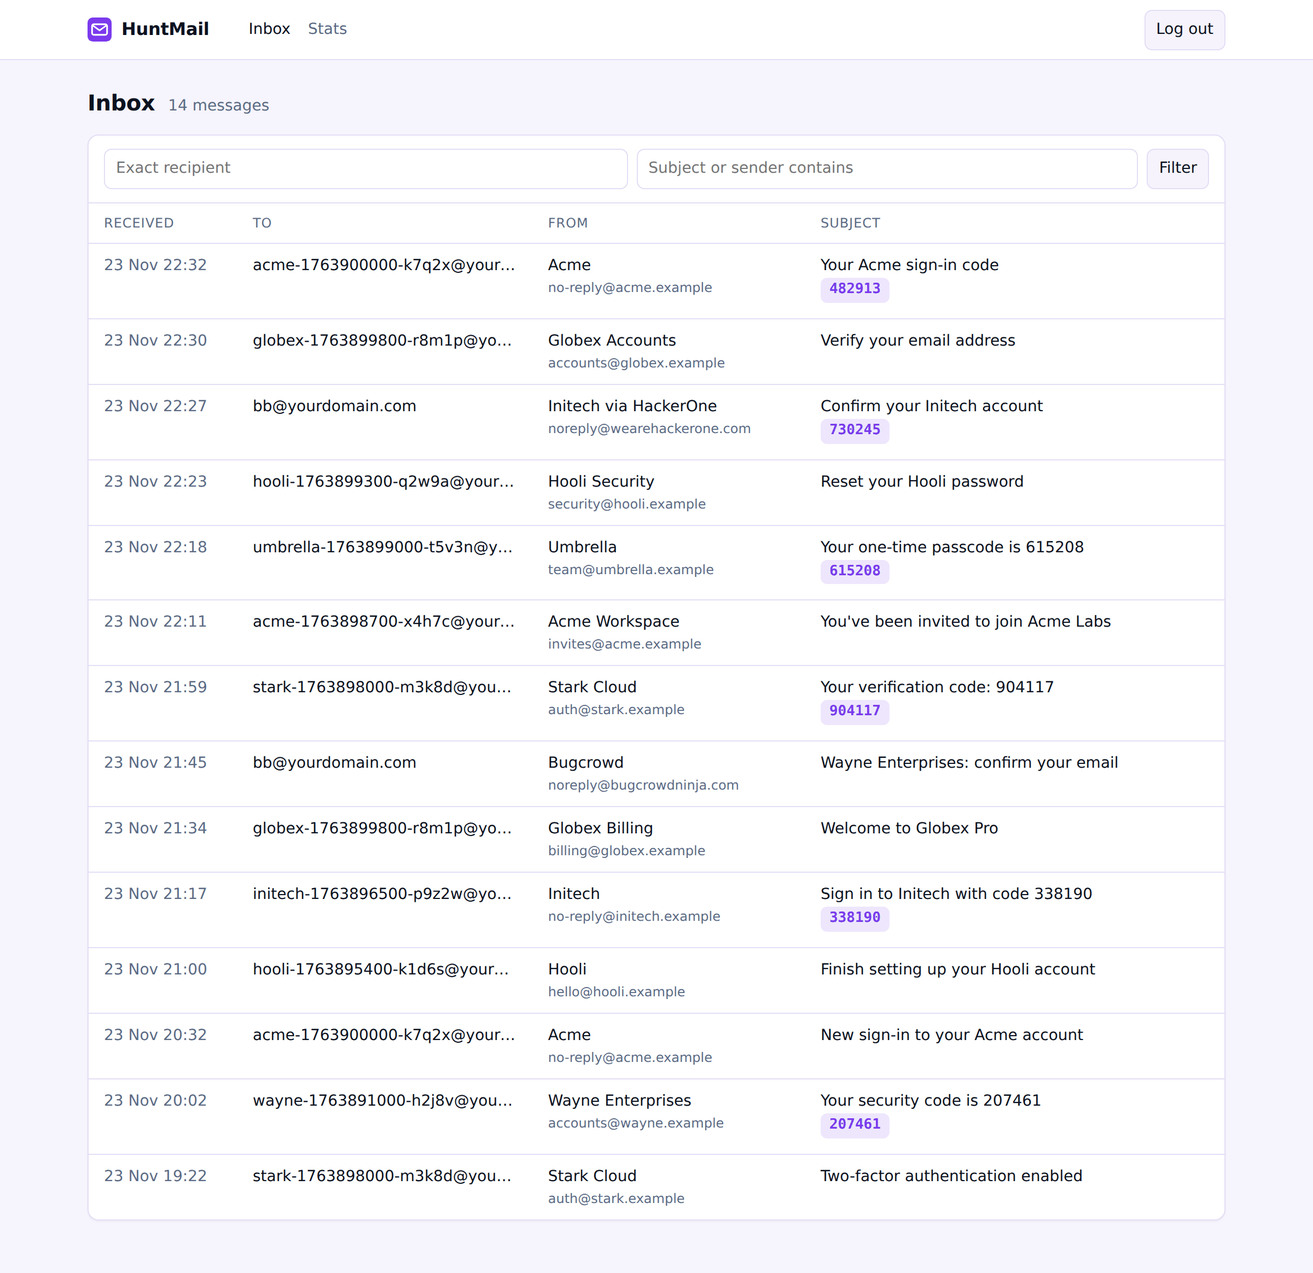
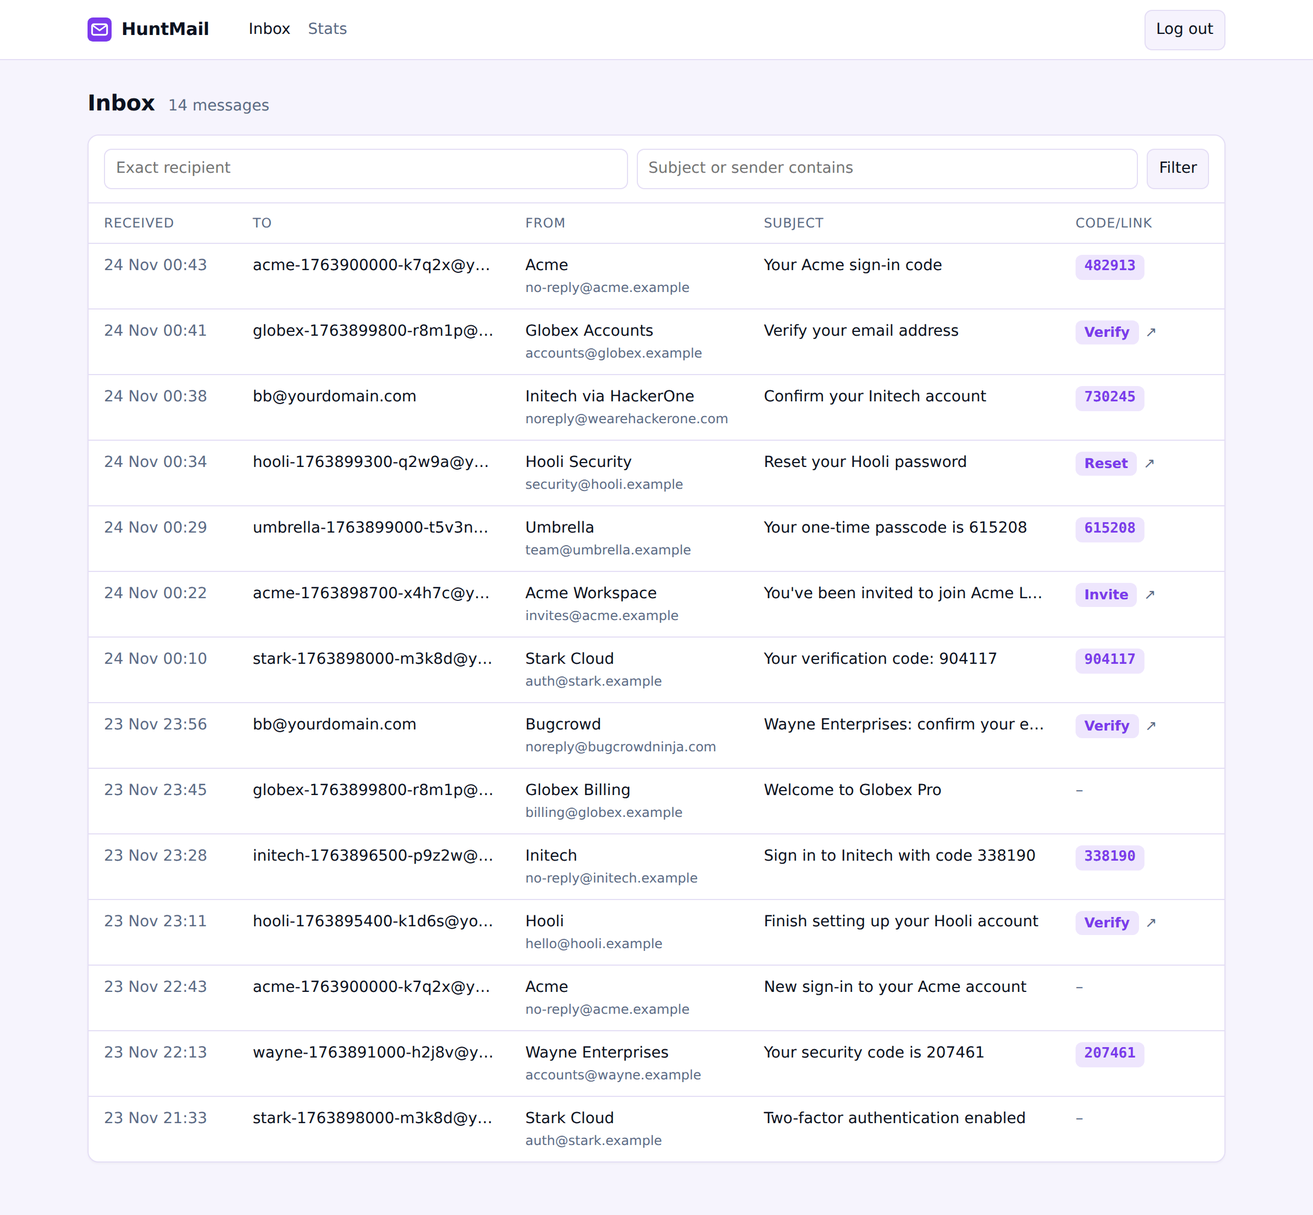
Update (v1.2.0)

diff --git a/src/ui.ts b/src/ui.ts
@@ -1,4 +1,5 @@
 import type { DayCount, DomainCount, MessageOut, Overview, TopEntry } from "./store";
+import type { ActionLink } from "./action";
 import { MENU_CSS, MENU_JS, THEME_CSS, themeMenu } from "./theme";
 import { escapeHtml as e } from "./util";
 
@@ -79,6 +80,18 @@ document.addEventListener("auxclick", function (e) {
 });
 ${MENU_JS}`;
 
+/** The mail's action link: its kind copies the link (paste it into the browser you test with); the arrow opens it. */
+function actionChip(a: ActionLink): string {
+  const tip = `${a.text ? a.text + "\n" : ""}${a.url}\nClick to copy. Opening it is a click on it: it can use it up.`;
+  return `<button type="button" class="chip act" data-copy="${e(a.url)}" title="${e(tip)}">${e(a.kind)}</button><a class="act-open" href="${e(a.url)}" target="_blank" rel="noopener noreferrer nofollow" title="Open in a new tab" aria-label="Open the ${e(a.kind)} link">↗</a>`;
+}
+
+/** The Code/link cell: the likeliest code, else the action link. */
+function codeOrAction(m: MessageOut): string {
+  if (m.codes[0]) return codeChip(m.codes[0]) + (m.codes.length > 1 ? `<span class="mut" title="${e(m.codes.slice(1).join(", "))}">+${m.codes.length - 1}</span>` : "");
+  return m.action ? actionChip(m.action) : `<span class="mut">–</span>`;
+}
+
 /** A one-time code as a button that copies itself. */
 function codeChip(code: string): string {
   return `<button type="button" class="chip code" data-copy="${e(code)}" title="Click to copy">${e(code)}</button>`;
@@ -130,6 +143,9 @@ td .sub{display:block;font-size:12px;color:var(--mut);overflow:hidden;text-overf
 td.s a{color:var(--fg);font-weight:500}
 .mut{color:var(--mut)}
 .chip{display:inline-block;background:var(--chip);color:var(--chipfg);border-radius:6px;padding:1px 8px;margin:0 6px 4px 0;font:600 13px/1.6 ui-monospace,SFMono-Regular,Menlo,Consolas,monospace}
+.chip.act{border:0;cursor:copy;font-family:inherit;font-size:12.5px;margin-right:2px;transition:background .15s,color .15s}.chip.act:hover{filter:brightness(.94)}.chip.act.copied{background:var(--good);color:var(--ongood)}.chip.act.copied::after{content:" \\2713"}
+.act-open{display:inline-block;padding:0 4px;color:var(--mut);font-size:13px}.act-open:hover{color:var(--acc);text-decoration:none}
+td.cl{white-space:nowrap}td.cl .chip{margin-bottom:0}
 .chip.code{border:0;cursor:copy;transition:background .15s,color .15s}.chip.code:hover{filter:brightness(.94)}
 .chip.code.copied{background:var(--good);color:var(--ongood)}.chip.code.copied::after{content:" \\2713"}
 .empty{padding:40px 14px;text-align:center;color:var(--mut)}
@@ -207,7 +223,7 @@ export function inboxPage(root: string, rows: MessageOut[], f: { to: string; q: 
     ? rows
         .map(
           (m) => `<tr data-href="${root}/inbox/${e(m.id)}"><td class="t" title="${e(fmtTime(m.received_at))} UTC">${e(shortTime(m.received_at))}</td><td class="hide-sm">${recipient(m)}</td><td class="hide-sm">${sender(m)}</td>
-<td class="s"><a href="${root}/inbox/${e(m.id)}">${e(m.subject || "(no subject)")}</a>${m.codes[0] ? `<span class="sub">${codeChip(m.codes[0])}</span>` : ""}</td></tr>`,
+<td class="s"><a href="${root}/inbox/${e(m.id)}">${e(m.subject || "(no subject)")}</a></td><td class="cl">${codeOrAction(m)}</td></tr>`,
         )
         .join("")
     : "";
@@ -224,8 +240,8 @@ export function inboxPage(root: string, rows: MessageOut[], f: { to: string; q: 
 <button>Filter</button>${filtered ? `<a href="${root}/inbox">Clear</a>` : ""}</form>
 ${
   rows.length
-    ? `<table><colgroup><col style="width:136px"><col class="hide-sm" style="width:26%"><col class="hide-sm" style="width:24%"><col></colgroup>
-<thead><tr><th>Received</th><th class="hide-sm">To</th><th class="hide-sm">From</th><th>Subject</th></tr></thead><tbody>${list}</tbody></table>`
+    ? `<table><colgroup><col style="width:136px"><col class="hide-sm" style="width:24%"><col class="hide-sm" style="width:21%"><col><col style="width:150px"></colgroup>
+<thead><tr><th>Received</th><th class="hide-sm">To</th><th class="hide-sm">From</th><th>Subject</th><th title="The likeliest one-time code; without one, the link the mail is about (verify, reset, sign in, invite)">Code/link</th></tr></thead><tbody>${list}</tbody></table>`
     : `<div class="empty">${filtered ? "No mail matches." : "No mail yet. Send something to any address on your domain."}</div>`
 }
 ${f.next || f.paged ? `<div class="pager">${f.paged ? `<a href="${root}/inbox${qs.toString() ? "?" + qs.toString() : ""}">← Newest</a>` : ""}${f.next ? `<a href="${root}/inbox?${qs.toString() ? qs.toString() + "&" : ""}cursor=${e(f.next)}">Older →</a>` : ""}</div>` : ""}
@@ -260,6 +276,7 @@ export function messagePage(root: string, m: MessageOut, viewUrl: string, viewUr
 <dt>To</dt><dd>${e(m.to)}${m.header_to && m.header_to.toLowerCase() !== m.to ? ` <span class="mut">· header ${e(m.header_to)}</span>` : ""}</dd>
 <dt>Received</dt><dd>${e(fmtTime(m.received_at))} UTC</dd>
 <dt>Codes</dt><dd>${codes}${m.codes.length ? ` <span class="mut">click to copy</span>` : ""}</dd>
+${m.action ? `<dt>Action link</dt><dd>${actionChip(m.action)} <span class="mut">${e(m.action.text || m.action.url)}</span></dd>` : ""}
 <dt>Links</dt><dd>${links}${m.links.length ? `<div class="mut" style="font-size:12px;margin-top:4px">Click a link to copy it. Link text is set by the sender and can differ from where the link goes.</div>` : ""}</dd>
 <dt>Attachments</dt><dd>${atts}</dd>
 <dt>Sender checks</dt><dd>${authLine(m)}</dd>

diff --git a/test/action.test.ts b/test/action.test.ts
@@ -1,0 +1,57 @@
+import { describe, expect, it } from "vitest";
+import { actionLink } from "../src/action";
+
+const L = (url: string, text = "") => ({ url, text });
+
+describe("action link", () => {
+  it("picks the link a sign-up mail is about, by its text first", () => {
+    expect(actionLink([L("https://a.example/home", "Home"), L("https://a.example/v?t=1", "Verify your email")])).toEqual({
+      kind: "Verify",
+      url: "https://a.example/v?t=1",
+      text: "Verify your email",
+    });
+    expect(actionLink([L("https://a.example/x", "Reset password")])?.kind).toBe("Reset");
+    expect(actionLink([L("https://a.example/x", "Choose a new password")])?.kind).toBe("Reset");
+    expect(actionLink([L("https://a.example/x", "Sign in with this link")])?.kind).toBe("Sign in");
+    expect(actionLink([L("https://a.example/x", "Accept the invitation")])?.kind).toBe("Invite");
+    expect(actionLink([L("https://a.example/x", "Join your team")])?.kind).toBe("Invite");
+  });
+
+  it("falls back to the address when no link text says, and kinds are tried in order", () => {
+    expect(actionLink([L("https://a.example/account/verify?token=abc")])?.kind).toBe("Verify");
+    expect(actionLink([L("https://a.example/password-reset/abc")])?.kind).toBe("Reset");
+    expect(actionLink([L("https://a.example/auth/magic-link?t=1")])?.kind).toBe("Sign in");
+    expect(actionLink([L("https://a.example/invites/abc/")])?.kind).toBe("Invite");
+    // Verify comes before Reset, and text before address within a kind.
+    expect(actionLink([L("https://a.example/reset", "Reset password"), L("https://a.example/c", "Confirm account")])?.kind).toBe("Verify");
+    expect(actionLink([L("https://a.example/verify-x"), L("https://a.example/y", "Verify now")])?.url).toBe("https://a.example/y");
+  });
+
+  it("matches addresses only at word starts in the host and path, never inside tokens or the query", () => {
+    expect(actionLink([L("https://news.example/v2/emailclick?d=8XYywk9q5JEg5T8IQAekWPzwBbtkVEVerifLygm3Kz")])).toBeNull();
+    expect(actionLink([L("https://news.example/c/AbcVerifyXyz")])).toBeNull();
+    expect(actionLink([L("https://a.example/next?step=verify")])).toBeNull();
+    expect(actionLink([L("https://gov.example/sign-in/verify?token=abc")])?.kind).toBe("Verify");
+    expect(actionLink([L("https://cloud.example/account/accept-invite?source=org", "https://cloud.example/account/accept-invite?source=org")])?.kind).toBe("Invite");
+    expect(actionLink([L("https://verify.a.example/t/123")])?.kind).toBe("Verify");
+    expect(actionLink([L("https://a.example/auth/confirm_email/abc")])?.kind).toBe("Verify");
+  });
+
+  it("ignores link text that is itself an address, leaving the address rules to decide", () => {
+    expect(actionLink([L("https://t.example/c?d=1", "https://t.example/c?d=abcVerifXYZ")])).toBeNull();
+    expect(actionLink([L("https://t.example/c", "www.t.example/confirm-later")])).toBeNull();
+    const a = actionLink([L("https://cloud.example/account/accept-invite?s=1", "https://cloud.example/account/accept-invite?s=1")]);
+    expect(a).toEqual({ kind: "Invite", url: "https://cloud.example/account/accept-invite?s=1", text: "https://cloud.example/account/accept-invite?s=1" });
+  });
+
+  it("skips links that are never the point, links that aren't http(s), and mail without one", () => {
+    expect(actionLink([L("https://a.example/unsubscribe?confirm=1", "Confirm unsubscribe")])).toBeNull();
+    expect(actionLink([L("https://a.example/prefs", "Manage your account")])).toBeNull();
+    expect(actionLink([L("https://twitter.com/verify", "Follow us")])).toBeNull();
+    expect(actionLink([L("javascript:alert(1)", "Verify")])).toBeNull();
+    expect(actionLink([L("mailto:a@a.example", "Confirm")])).toBeNull();
+    expect(actionLink([L("not a url", "Verify")])).toBeNull();
+    expect(actionLink([L("https://a.example/news", "Read more")])).toBeNull();
+    expect(actionLink([])).toBeNull();
+  });
+});

diff --git a/src/action.ts b/src/action.ts
@@ -1,0 +1,82 @@
+// The link a sign-up mail is about: verify the address, confirm the account, reset the password,
+// sign in with a magic link, accept an invitation. Picked from the links and the text a reader
+// sees beside each: the text first, the address only when no text says. Computed when mail is
+// read (from link_details), so the rules can change without re-parsing stored mail.
+import type { LinkDetail } from "./extract";
+
+export type ActionKind = "Verify" | "Reset" | "Sign in" | "Invite";
+
+export interface ActionLink {
+  kind: ActionKind;
+  url: string;
+  /** The link text as the sender wrote it ("" when the link had none). */
+  text: string;
+}
+
+/**
+ * Tried in order, each on the link text, then on the address. Address rules see only the host and
+ * path (not the query, where tracking tokens live), and only at the start of a word: a random
+ * token such as "...VEVerifLy..." must not count as a verify link.
+ */
+const KINDS: { kind: ActionKind; text: RegExp; url: RegExp }[] = [
+  {
+    kind: "Verify",
+    text: /verif|confirm|activat|validat|complete (your )?(registration|sign ?up)|finish (signing up|setting up)/,
+    url: /(?:^|[^a-z0-9])(?:verif|confirm|activat|validat)/,
+  },
+  {
+    kind: "Reset",
+    text: /reset|(set|choose|create|change) (a |your )?(new )?password|recover/,
+    url: /(?:^|[^a-z0-9])(?:reset[-_/]?pass|pass(?:word)?[-_/]?reset|recover)/,
+  },
+  {
+    kind: "Sign in",
+    text: /magic link|(sign|log) ?in (with this link|now|securely)|one[- ]click (sign|log) ?in/,
+    url: /(?:^|[^a-z0-9])(?:magic|login[-_]?token|signin[-_]?token)/,
+  },
+  {
+    kind: "Invite",
+    text: /accept (the |your |this )?invit|join (the |your )?(team|workspace|organi[sz]ation|project)/,
+    url: /(?:^|[^a-z0-9])invit(?:e|ation)s?(?:[^a-z0-9]|$)/,
+  },
+];
+
+/** Links a mail always carries that are never what it is about. */
+const NOT_ACTION = new RegExp(
+  "unsubscribe|opt[- ]?out|preferences|privacy|terms|policy|view (it |this )?(email |message )?in (a |your )?browser|webversion|" +
+    "facebook|twitter|x\\.com/|linkedin|instagram|youtube|tiktok|apps\\.apple|play\\.google|/help|support|contact us|manage (your )?(account|subscription|email)",
+);
+
+function httpUrl(u: string): string {
+  try {
+    const p = new URL(u).protocol;
+    return p === "http:" || p === "https:" ? u : "";
+  } catch {
+    return "";
+  }
+}
+
+function hostPath(u: string): string {
+  const p = new URL(u);
+  return (p.host + p.pathname).toLowerCase();
+}
+
+/** The message's action link, or null. */
+export function actionLink(links: LinkDetail[]): ActionLink | null {
+  for (const k of KINDS) {
+    for (const byUrl of [false, true]) {
+      for (const l of links) {
+        const url = httpUrl(l.url);
+        if (!url) continue;
+        // Link text that is itself an address says nothing more than the address (and can carry its
+        // tracking token): only the address rules decide.
+        const shown = l.text.trim().toLowerCase();
+        const text = shown.includes("://") || shown.startsWith("www.") ? "" : shown;
+        const addr = url.toLowerCase();
+        if (NOT_ACTION.test(text) || NOT_ACTION.test(addr)) continue;
+        if (byUrl ? k.url.test(hostPath(url)) : text !== "" && k.text.test(text)) return { kind: k.kind, url, text: l.text.trim() };
+      }
+    }
+  }
+  return null;
+}

diff --git a/test/worker.test.ts b/test/worker.test.ts
@@ -715,6 +715,27 @@ describe("ui", () => {
     expect(await js.text()).toContain("clipboard");
   });
 
+  it("shows a Code/link column: the code, else the action link, which the API also returns", async () => {
+    await deliver(htmlOnly('<p>Welcome</p><a href="https://site.example/help">Help</a> <a href="https://site.example/v?t=abc&amp;u=1">Confirm your account</a>'), { to: "act@hunt.example" });
+    await deliver(plain("Your code is 424242"), { to: "code@hunt.example" });
+    await deliver(plain("Just news"), { to: "none@hunt.example" });
+    await worker.scheduled(createScheduledController({ scheduledTime: Date.UTC(2026, 0, 1, 0, 5) }), env);
+    const emails = (await apiJson("/api/emails?text=0")).body.emails;
+    const by = (to: string) => emails.find((m: any) => m.to === to);
+    expect(by("act@hunt.example").action).toEqual({ kind: "Verify", url: "https://site.example/v?t=abc&u=1", text: "Confirm your account" });
+    expect(by("code@hunt.example").action).toBeNull();
+    const one = (await apiJson(`/api/emails/${by("act@hunt.example").id}`)).body;
+    expect(one.action.kind).toBe("Verify");
+    const cookie = await login();
+    const page = await (await SELF.fetch(`${BASE}/inbox`, { headers: { cookie } })).text();
+    expect(page).toContain("<th title=\"The likeliest one-time code");
+    expect(page).toContain('class="chip act" data-copy="https://site.example/v?t=abc&#38;u=1"');
+    expect(page).toContain('rel="noopener noreferrer nofollow"');
+    expect(page).toContain('data-copy="424242"');
+    const detail = await (await SELF.fetch(`${BASE}/inbox/${by("act@hunt.example").id}`, { headers: { cookie } })).text();
+    expect(detail).toContain("<dt>Action link</dt>");
+  });
+
   it("rejects forged session cookies", async () => {
     const res = await SELF.fetch(`${BASE}/inbox`, { headers: { cookie: `__Host-huntmail=9999999999.${"a".repeat(64)}` }, redirect: "manual" });
     expect(res.status).toBe(303);

diff --git a/src/store.ts b/src/store.ts
@@ -1,3 +1,4 @@
+import { actionLink, type ActionLink } from "./action";
 import type { LinkDetail } from "./extract";
 import { concatBytes, gunzip } from "./util";
 
@@ -86,6 +87,8 @@ export interface MessageOut {
   links: string[];
   /** Each link with its visible text ("" for links found in plain text). */
   link_details: LinkDetail[];
+  /** The link the mail is about (verify, reset, sign in, invite), from link_details; null without one. */
+  action: ActionLink | null;
   attachments: AttachmentMeta[];
   auth: { spf: string; dkim: string; dmarc: string; verified_domains: string[]; spam_score: number | null };
   raw_size: number;
@@ -114,6 +117,7 @@ export function toOut(r: Row): MessageOut {
     codes: JSON.parse(r.codes) as string[],
     links: details.map((l) => l.url),
     link_details: details,
+    action: actionLink(details),
     attachments: JSON.parse(r.attachments ?? "[]") as AttachmentMeta[],
     auth: {
       spf: r.auth_spf || "none",

diff --git a/src/index.ts b/src/index.ts
@@ -477,7 +477,6 @@ async function ui(req: Request, env: Env, url: URL, parts: string[], c: Ctx): Pr
       cursor: cursor ?? undefined,
       limit: INBOX_PAGE,
       withText: false,
-      light: true,
       order: "desc",
     });
     return html(c, inboxPage(c.root, rows, { to: p.get("to") ?? "", q: p.get("q") ?? "", paged: Boolean(cursor || before), next: nextCursor(rows, INBOX_PAGE) }));

diff --git a/src/version.ts b/src/version.ts
@@ -1,2 +1,2 @@
 /** HuntMail's version, shown by /health and /api/stats. Kept equal to package.json (a test checks). */
-export const VERSION = "1.1.0";
+export const VERSION = "1.2.0";

diff --git a/docs/API.md b/docs/API.md
@@ -4,7 +4,7 @@ Base URL (`HUNTMAIL_URL`): `https://<worker-name>.<your-subdomain>.workers.dev/<
 
 **User-Agent:** Cloudflare's edge rejects Python's default `Python-urllib/x.y` User-Agent on `workers.dev` hosts with `error code: 1010` before the request reaches the Worker. Set any User-Agent header when using `urllib`. curl, wget, requests, httpx, aiohttp, Node and Go clients work as-is.
 
-`GET /health` needs no key and returns `{"ok": true, "version": "1.1.0"}` (the running HuntMail version).
+`GET /health` needs no key and returns `{"ok": true, "version": "1.2.0"}` (the running HuntMail version).
 
 All `/api/*` routes need the key, as `X-Api-Key: <key>` or `Authorization: Bearer <key>`. Responses are JSON unless noted. Times are ISO 8601 UTC. `since` and `before` also accept unix seconds or milliseconds.
 
@@ -36,6 +36,7 @@ Anyone on the internet can send mail to any address on your domain, and can forg
   "codes": ["482913"],
   "links": ["https://target.example/verify?t=..."],
   "link_details": [{ "url": "https://target.example/verify?t=...", "text": "Verify your email" }],
+  "action": { "kind": "Verify", "url": "https://target.example/verify?t=...", "text": "Verify your email" },
   "attachments": [{ "filename": "logo.png", "mime_type": "image/png", "size": 1234, "content_id": "<logo>", "inline": true }],
   "auth": { "spf": "pass", "dkim": "pass", "dmarc": "pass", "verified_domains": ["target.example"], "spam_score": 0 },
   "raw_size": 34123,
@@ -48,6 +49,7 @@ Anyone on the internet can send mail to any address on your domain, and can forg
 - `codes`: likely one-time codes, best guess first. Digit codes of 4-8 next to words like "code", "verify" or "PIN" (or anywhere in the subject), bare six-digit numbers in short mail, joined `123 456` style codes, and letter+digit codes next to code words.
 - `links`: http(s) links from the HTML, then the plain text, in order, de-duplicated, entities decoded. Only links a reader can click: stylesheet and font `<link>` tags are skipped.
 - `link_details`: the same links, each with the `text` a reader sees (for image buttons, the image's alt text; `""` for links found in plain text). Use it to pick the right link, e.g. the one whose text says "Reset password" rather than "Unsubscribe". The text is written by the sender and can be anything; opening a link counts as a click and may use up a one-time token.
+- `action`: the link the mail is about, or `null`: `kind` is `Verify` (verify or confirm an address, activate an account), `Reset` (password reset), `Sign in` (magic link) or `Invite`, with its `url` and `text`. Picked from `link_details` by the link text first (unless the text is itself an address), then by words at the start of a path segment in the address (never the query); unsubscribe, preferences, social and help links never count. A best guess from sender-controlled links: check it before an agent opens it.
 - `auth`: the verdicts Cloudflare's MX recorded on arrival (`pass`, `fail`, `none`, ...). Only Cloudflare's own `Authentication-Results` header is read; copies further down the message are ignored, since a sender can write those. The parse fails closed: if the header could have been shaped by the sender (an envelope sender with quotes, brackets or `;`, quotes or unbalanced comments in the header, or more DKIM passes than DKIM signatures), all verdicts read `none`. `verified_domains` lists domains with a passing DKIM signature, plus the From domain when DMARC passed. `spam_score` is Cloudflare's score when present.
 - `raw_truncated`: the message was larger than `MAX_MESSAGE_KB`; the stored raw is the first part of it. `raw_size` is the original size.
 - `parse_status`: `ok`; `partial` (only the first `PARSE_BYTES` were parsed: text, codes and links can miss content late in very large mail); `pending` (not parsed yet, see below); `deferred` (over 64 KB, parsed when read, see below); `failed` (could not be parsed; raw is kept).
@@ -137,7 +139,7 @@ From `view-link`. A small page we generate: From, Sender (the envelope sender), 
 
 ## Inbox UI
 
-`<base>/inbox`, after logging in at `<base>/login` with the API key. List (50 per page, newest first; click a row to open it), filter by recipient or text, message detail with codes (click one to copy it), links, attachments, sender checks, raw download and the rendered mail. The **Theme** menu (top right) picks light, dark or the system's setting, and the colours: Midnight (the default), Nord or Graphite. The choice is kept in a cookie (`hm-theme`) in that browser. The rendered view keeps its own light header, so screenshots look the same whoever takes them.
+`<base>/inbox`, after logging in at `<base>/login` with the API key. List (50 per page, newest first; click a row to open it) with a Code/link column (the likeliest code, else the `action` link: click to copy, the arrow opens it), filter by recipient or text, message detail with codes (click one to copy it), links, attachments, sender checks, raw download and the rendered mail. The **Theme** menu (top right) picks light, dark or the system's setting, and the colours: Midnight (the default), Nord or Graphite. The choice is kept in a cookie (`hm-theme`) in that browser. The rendered view keeps its own light header, so screenshots look the same whoever takes them.
 
 ## Simple list: `GET <base>/emails`
 

diff --git a/README.md b/README.md
@@ -16,7 +16,7 @@ curl -s -H "X-Api-Key: $HUNTMAIL_API_KEY" "$HUNTMAIL_URL/api/wait?to=acme-k7q2x@
 - **Catch-all on your own domains** through Cloudflare Email Routing. Unlimited addresses, no per-address setup, and as many domains as you like in one inbox.
 - **An API built for agents**: wait for mail in one request, extracted `codes`, links with their visible text, sender checks (SPF, DKIM, DMARC), search, the original `.eml` and attachments.
 - **Screenshot-ready view**: a signed link that opens in any browser without the key and shows the mail as a mail client would, locked down (no scripts, remote images only when asked for).
-- **A small inbox** for humans: click a row to open it, click a code or link to copy it. Light or dark, in three colour palettes.
+- **A small inbox** for humans: each row shows its code or its verify/reset/sign-in link; click a row to open it, click a code or link to copy it. Light or dark, in three colour palettes.
 - **Hidden by default**: everything lives under a random path, and the bare address is a 404.
 - **Free to run**: one Worker and one D1 database, with retention by age and size so the free database never fills.
 

diff --git a/CHANGELOG.md b/CHANGELOG.md
@@ -5,6 +5,13 @@ the API under `<base>/api`, the configuration variables and the database
 (migrated in place by `scripts/setup.sh`) stay compatible within a major
 version.
 
+## v1.2.0 (2026-11-24)
+
+- `action` on every message: the link the mail is about (`Verify`, `Reset`,
+  `Sign in` or `Invite`), picked from its links when read.
+- Inbox: a Code/link column with the likeliest code, else that link (click to
+  copy); the message page shows it too.
+
 ## v1.1.0 (2026-11-23)
 
 - `/api/stats?days=N` adds mail per day (`days`) and per domain per day

diff --git a/AGENTS.md b/AGENTS.md
@@ -74,6 +74,7 @@ them.
 | `src/ingest.ts` | `email()` arrival (store raw, sender checks) and the parse step |
 | `src/store.ts` | D1 queries, size accounting, retention and eviction, stats |
 | `src/extract.ts` | Codes, links and link text, HTML to text |
+| `src/action.ts` | The link a message is about (verify, reset, sign in, invite) |
 | `src/authresults.ts` | Sender verdicts from Cloudflare's Authentication-Results, fail-closed |
 | `src/view.ts` | Sandboxed render of a message, cid images |
 | `src/ui.ts` | Inbox, stats and login pages |
